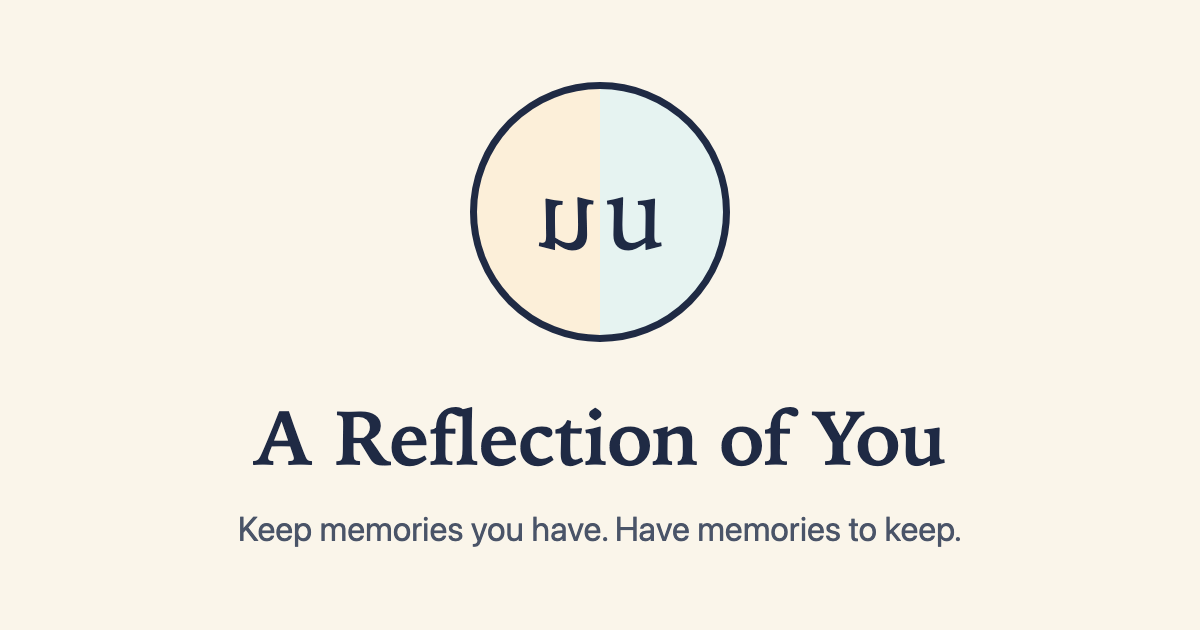
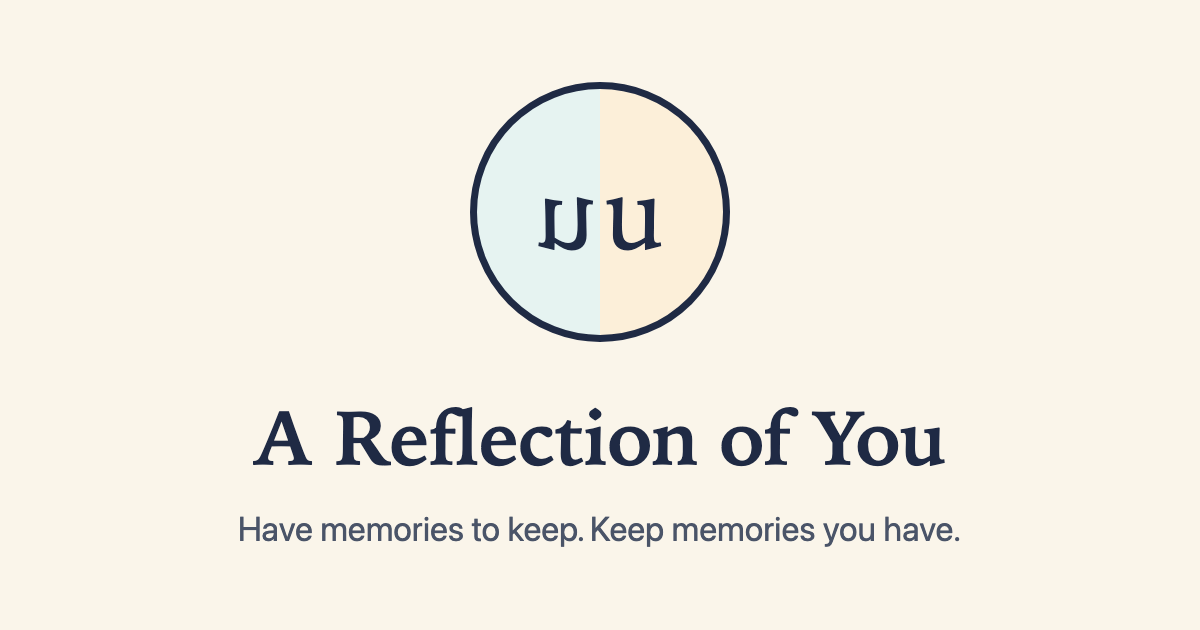
Reorganize the home page into three panels
- Make Memories (instant play), Make Memories (some setup needed) and
  Keep Memories, with the same panel colors; each panel is as tall as
  its cards
- Tagline order swapped and centered on one line; About blurb mentions
  making memories first
- Logo colors swapped to match the panel order, in the page, favicon,
  site icons and link preview image
- Note that Photo Stories Desktop is in alpha testing
- README: describe the panels, and mention GoatCounter

Changed region(s): [[0.185, 0.8143, 0.8017, 0.8746], [0.5242, 0.3619, 0.555, 0.3921], [0.4625, 0.3619, 0.4933, 0.3921]]

diff --git a/products.js b/products.js
@@ -3,7 +3,8 @@
 
   To rename a product, change its "name".
   To add a product, copy one line and edit it.
-  To move a product to the other column, change "side" to "keep" or "make".
+  To move a product to another panel, change "panel" to "instant" (Make Memories, no setup),
+  "setup" (Make Memories, some setup) or "keep" (Keep Memories).
 
   status: "live", "construction" (under construction), or "soon" (coming soon)
   link:   the page or repo to open, or "" for no link yet
@@ -12,19 +13,22 @@
   note:   optional heads-up shown on the card, for anything unusual about getting started
 */
 const PRODUCTS = [
-  // Keep Memories: tools that hold on to the memories you already have
-  { side: "keep", name: "Photo Stories Desktop", status: "live", description: "Tell the stories behind your special photos, name the people in them, and keep it all in a permanent archive. For Mac, Windows and Linux.", link: "https://github.com/AReflectionOfYou/PhotoStoriesDesktop/releases/latest", cta: "Download" },
-  { side: "keep", name: "Photo Stories Mobile",  status: "soon", description: "Capture photos and the stories behind them on your phone.", link: "" },
-  { side: "keep", name: "Biographies",      status: "soon",         description: "Life stories drawn from interviews, from first questions to finished keepsake.", link: "" },
+  // Make Memories, instant play: games that need no setup
+  { panel: "instant", name: "Swing Time",       status: "live",         description: "Swing your phone to ring virtual handbells and play music together.", link: "https://areflectionofyou.github.io/SwingTimeGame/" },
+  { panel: "instant", name: "Two of You",       status: "live",         description: "A memory game to play together.", link: "https://areflectionofyou.github.io/TwoOfYouGame/", icon: "icons/two-of-you.png" },
 
-  // Make Memories: games you play together
-  { side: "make", name: "Two of You",       status: "live",         description: "A memory game to play together.", link: "https://areflectionofyou.github.io/TwoOfYouGame/", icon: "icons/two-of-you.png" },
-  { side: "make", name: "A Glimpse of You", status: "live",         description: "Figure out who is in the photo with yes/no questions, played together on your home network.", link: "https://github.com/AReflectionOfYou/AGlimpseOfYouGame",
-    cta: "Set it up", note: "Needs some computer setup: you install it on a Mac or PC and start it from Terminal. Phones then join over your home WiFi." },
-  { side: "make", name: "Quartets of You",  status: "live",         description: "Find the hidden groups of four in this word game.", link: "https://areflectionofyou.github.io/QuartetsOfYouGame/", icon: "icons/quartets-of-you.svg" },
-  { side: "make", name: "Quartets of You Puzzle Packs", status: "live", description: "Write your own Quartets of You puzzles, host them for free, and share a link to play them.", link: "https://github.com/AReflectionOfYou/quartets-puzzle-pack-template", icon: "icons/quartets-of-you.svg",
+  // Make Memories, some setup needed
+  { panel: "setup", name: "Quartets of You",  status: "live",         description: "Find the hidden groups of four in this word game.", link: "https://areflectionofyou.github.io/QuartetsOfYouGame/", icon: "icons/quartets-of-you.svg" },
+  { panel: "setup", name: "Quartets of You Puzzle Packs", status: "live", description: "Write your own Quartets of You puzzles, host them for free, and share a link to play them.", link: "https://github.com/AReflectionOfYou/quartets-puzzle-pack-template", icon: "icons/quartets-of-you.svg",
     cta: "Use the template", note: "For people comfortable with GitHub: it's a template repository with sample packs and a check that catches mistakes." },
-  { side: "make", name: "Swing Time",       status: "live",         description: "Swing your phone to ring virtual handbells and play music together.", link: "https://areflectionofyou.github.io/SwingTimeGame/" },
+  { panel: "setup", name: "A Glimpse of You", status: "live",         description: "Figure out who is in the photo with yes/no questions, played together on your home network.", link: "https://github.com/AReflectionOfYou/AGlimpseOfYouGame",
+    cta: "Set it up", note: "Needs some computer setup: you install it on a Mac or PC and start it from Terminal. Phones then join over your home WiFi." },
+
+  // Keep Memories: tools that hold on to the memories you already have
+  { panel: "keep", name: "Photo Stories Desktop", status: "live", description: "Tell the stories behind your special photos, name the people in them, and keep it all in a permanent archive. For Mac, Windows and Linux.", link: "https://github.com/AReflectionOfYou/PhotoStoriesDesktop/releases/latest",
+    cta: "Download", note: "In alpha testing: the app is still being tested, so expect some rough edges." },
+  { panel: "keep", name: "Photo Stories Mobile",  status: "soon", description: "Capture photos and the stories behind them on your phone.", link: "" },
+  { panel: "keep", name: "Biographies",      status: "soon",         description: "Life stories drawn from interviews, from first questions to finished keepsake.", link: "" },
 ];
 
 const STATUS_LABELS = {
@@ -35,12 +39,12 @@ const STATUS_LABELS = {
 
 // Build the cards. You should not need to change anything below this line.
 function renderProducts() {
-  for (const side of ["keep", "make"]) {
-    const list = document.getElementById(side + "-list");
+  for (const panel of ["instant", "setup", "keep"]) {
+    const list = document.getElementById(panel + "-list");
     if (!list) continue;
     list.textContent = "";
 
-    for (const p of PRODUCTS.filter((item) => item.side === side)) {
+    for (const p of PRODUCTS.filter((item) => item.panel === panel)) {
       const item = document.createElement("li");
       const card = document.createElement(p.link ? "a" : "div");
       card.className = "card" + (p.status === "live" ? "" : " card-muted");

diff --git a/index.html b/index.html
@@ -4,28 +4,28 @@
   <meta charset="utf-8">
   <meta name="viewport" content="width=device-width, initial-scale=1">
   <title>A Reflection of You</title>
-  <meta name="description" content="Keep memories you have. Have memories to keep. Tools and games for shared stories and experiences.">
+  <meta name="description" content="Have memories to keep. Keep memories you have. Tools and games for shared stories and experiences.">
 
   <!-- Site icon: browser tabs, bookmarks and phone home screens -->
-  <link rel="icon" href="favicon.ico" sizes="any">
-  <link rel="icon" href="icons/site-32.png" type="image/png" sizes="32x32">
-  <link rel="apple-touch-icon" href="apple-touch-icon.png">
-  <link rel="manifest" href="site.webmanifest">
+  <link rel="icon" href="favicon.ico?v=2" sizes="any">
+  <link rel="icon" href="icons/site-32.png?v=2" type="image/png" sizes="32x32">
+  <link rel="apple-touch-icon" href="apple-touch-icon.png?v=2">
+  <link rel="manifest" href="site.webmanifest?v=2">
   <meta name="theme-color" content="#FAF5EA">
 
   <!-- Link previews in texts, email, chat and social media -->
   <meta property="og:type" content="website">
   <meta property="og:site_name" content="A Reflection of You">
   <meta property="og:title" content="A Reflection of You">
-  <meta property="og:description" content="Keep memories you have. Have memories to keep. Tools and games for shared stories and experiences.">
+  <meta property="og:description" content="Have memories to keep. Keep memories you have. Tools and games for shared stories and experiences.">
   <meta property="og:url" content="https://areflectionofyou.github.io/">
-  <meta property="og:image" content="https://areflectionofyou.github.io/og-image.png">
+  <meta property="og:image" content="https://areflectionofyou.github.io/og-image.png?v=2">
   <meta property="og:image:width" content="1200">
   <meta property="og:image:height" content="630">
   <meta property="og:image:alt" content="The A Reflection of You logo: a lowercase u and its mirror image in a circle">
   <meta name="twitter:card" content="summary_large_image">
-  <!-- After editing styles.css or products.js, bump the ?v= number so browsers fetch the new copy -->
-  <link rel="stylesheet" href="styles.css?v=5">
+  <!-- After editing styles.css or products.js, bump the ?v= number (the same goes for the icons) so browsers fetch the new copy -->
+  <link rel="stylesheet" href="styles.css?v=6">
   <!-- GoatCounter (cookie-free analytics) -->
   <script data-goatcounter="https://maherou-areflectionofyou.goatcounter.com/count"
           async src="//gc.zgo.at/count.js"></script>
@@ -37,22 +37,30 @@
       <span class="logo-mark" aria-hidden="true"><span class="mirror">u</span><span>u</span></span>
     </div>
     <h1>A Reflection of You</h1>
-    <!-- Tagline: the first sentence sits over Keep Memories, the second over Make Memories -->
-    <p class="tagline"><span>Keep memories you have.</span> <span>Have memories to keep.</span></p>
+    <!-- Tagline: one centered line, or two on a narrow screen -->
+    <p class="tagline"><span>Have memories to keep.</span> <span>Keep memories you have.</span></p>
   </header>
 
   <main class="wrap">
     <div class="columns">
+      <section class="column make" aria-labelledby="instant-heading instant-label">
+        <h2 id="instant-heading">Make Memories</h2>
+        <p class="column-label" id="instant-label">Instant play</p>
+        <p class="column-intro">Games you can play right away, with no setup.</p>
+        <ul class="cards" id="instant-list"></ul>
+      </section>
+
+      <section class="column make" aria-labelledby="setup-heading setup-label">
+        <h2 id="setup-heading">Make Memories</h2>
+        <p class="column-label" id="setup-label">Some setup needed</p>
+        <p class="column-intro">Games that take a little setup before you play.</p>
+        <ul class="cards" id="setup-list"></ul>
+      </section>
+
       <section class="column keep" aria-labelledby="keep-heading">
         <h2 id="keep-heading">Keep Memories</h2>
         <p class="column-intro">Tools to gather and hold on to the memories you already have.</p>
         <ul class="cards" id="keep-list"></ul>
-      </section>
-
-      <section class="column make" aria-labelledby="make-heading">
-        <h2 id="make-heading">Make Memories</h2>
-        <p class="column-intro">Games to play together, so there are new memories to keep.</p>
-        <ul class="cards" id="make-list"></ul>
       </section>
     </div>
 
@@ -65,7 +73,7 @@
       <h2 id="about-heading">What this is for</h2>
       <!-- About blurb: edit freely -->
       <p>A Reflection of You makes software that brings people closer through the stories and experiences they share.
-        Some of it helps you keep the memories you already have. Some of it gives you new reasons to sit down together and make more.</p>
+        Some of it gives you new reasons to sit down together and make memories. Some of it helps you keep the memories you already have.</p>
     </section>
   </main>
 
@@ -80,6 +88,6 @@
     </div>
   </footer>
 
-  <script src="products.js?v=7"></script>
+  <script src="products.js?v=8"></script>
 </body>
 </html>

diff --git a/styles.css b/styles.css
@@ -25,7 +25,7 @@
   --radius: 1rem;
   --shadow: 0 0.25rem 1rem rgb(31 42 68 / 8%);
   --shadow-lift: 0 0.75rem 1.75rem rgb(31 42 68 / 14%);
-  --max-width: 68rem;
+  --max-width: 78rem;
 }
 
 * { box-sizing: border-box; }
@@ -88,7 +88,7 @@ a { color: var(--make-ink); text-underline-offset: 0.18em; }
   width: 100%;
   height: 100%;
   border-radius: 50%;
-  background: linear-gradient(90deg, var(--keep-wash) 50%, var(--make-wash) 50%);
+  background: linear-gradient(90deg, var(--make-wash) 50%, var(--keep-wash) 50%);
   border: 2px solid var(--ink);
   font-family: var(--font-heading);
   font-size: 2rem;
@@ -113,36 +113,55 @@ a { color: var(--make-ink); text-underline-offset: 0.18em; }
   letter-spacing: -0.02em;
 }
 
-/* On wider screens each tagline sentence is centered over its column */
+/* The two sentences share one centered line, or stack when there is no room */
 .tagline {
-  display: grid;
-  gap: 0.25rem;
+  display: flex;
+  flex-wrap: wrap;
+  justify-content: center;
+  gap: 0.25rem 0.4em;
   margin: 1rem 0 0;
   color: var(--ink-soft);
   font-size: clamp(1.15rem, 3vw, 1.4rem);
 }
-@media (min-width: 48rem) {
-  .tagline { grid-template-columns: 1fr 1fr; gap: 2rem; }
-}
 
-/* ---------- Two columns ---------- */
+/* ---------- Three panels ---------- */
 
 .columns {
   display: grid;
   gap: 1.5rem;
+  align-items: start; /* each panel is only as tall as its cards */
 }
 
+/* Tablets: the two Make panels side by side, Keep full width below */
 @media (min-width: 48rem) {
-  .columns { grid-template-columns: 1fr 1fr; gap: 2rem; }
+  .columns { grid-template-columns: repeat(2, minmax(0, 1fr)); }
+  .columns .keep { grid-column: 1 / -1; }
+}
+/* Computers: all three side by side */
+@media (min-width: 64rem) {
+  .columns { grid-template-columns: repeat(3, minmax(0, 1fr)); }
+  .columns .keep { grid-column: auto; }
 }
 
 .column {
-  padding: clamp(1.5rem, 4vw, 2.5rem);
+  padding: clamp(1.25rem, 2.5vw, 1.75rem);
   border-radius: calc(var(--radius) * 1.5);
 }
 .column h2 {
   margin: 0;
   font-size: clamp(1.6rem, 4vw, 2rem);
+}
+/* Says how much setup a panel's games need */
+.column-label {
+  display: inline-block;
+  margin: 0.75rem 0 0;
+  padding: 0.2rem 0.85rem;
+  border-radius: 999px;
+  background: var(--card);
+  border: 1px solid currentColor;
+  color: var(--make-ink);
+  font-size: 0.9rem;
+  font-weight: 600;
 }
 .column-intro {
   margin: 0.5rem 0 1.5rem;

diff --git a/README.md b/README.md
@@ -2,13 +2,13 @@
 
 The home page of the [A Reflection of You](https://github.com/AReflectionOfYou) organization, served by GitHub Pages at <https://areflectionofyou.github.io/>.
 
-Plain HTML, CSS and a little JavaScript: no build step, frameworks, CDNs or analytics. `.nojekyll` tells GitHub Pages to serve the files as-is.
+Plain HTML, CSS and a little JavaScript: no build step, frameworks or CDNs. Visits are counted with [GoatCounter](https://www.goatcounter.com/), which uses no cookies. `.nojekyll` tells GitHub Pages to serve the files as-is.
 
 ## What to edit
 
-- `products.js`: the product cards. Each product is one line with its column (`keep` or `make`), name, status, description and link. Rename, add or move a product by editing that line.
+- `products.js`: the product cards. Each product is one entry with its panel (`instant` for Make Memories with no setup, `setup` for Make Memories with some setup, or `keep` for Keep Memories), name, status, description and link. Rename, add or move a product by editing that entry.
 - `styles.css`: colors and fonts are listed at the top as CSS variables.
-- `index.html`: tagline, column intros, about blurb, footer links and the logo slot. Look for the comments.
+- `index.html`: tagline, panel headings, labels and intros, about blurb, footer links and the logo slot. Look for the comments.
 
 Contact goes through [GitHub issues](https://github.com/AReflectionOfYou/AReflectionOfYou.github.io/issues) on this repo; the footer's contact link points there.
 
